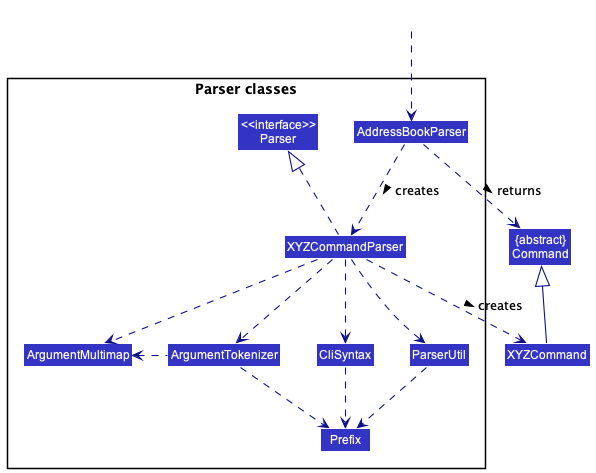
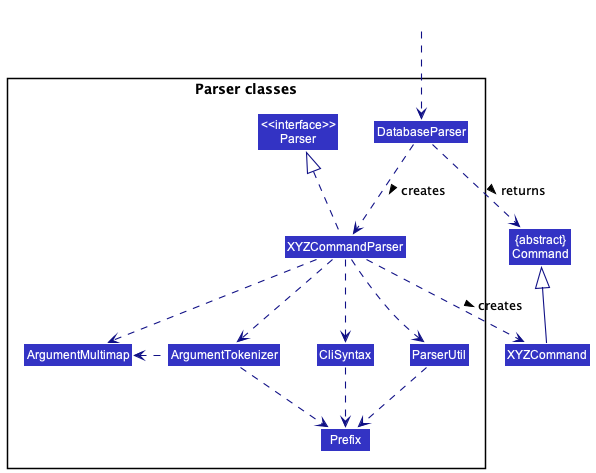
Change diagrams and DG steps

diff --git a/docs/DeveloperGuide.md b/docs/DeveloperGuide.md
@@ -88,7 +88,7 @@ Refer to the guide [_Setting up and getting started_](SettingUp.md).
 
 <div markdown="span" class="alert alert-primary">
 
-:bulb: **Tip:** The `.puml` files used to create diagrams in this document can be found in the [diagrams](https://github.com/se-edu/addressbook-level3/tree/master/docs/diagrams/) folder. Refer to the [_PlantUML Tutorial_ at se-edu/guides](https://se-education.org/guides/tutorials/plantUml.html) to learn how to create and edit diagrams.
+:bulb: **Tip:** The `.puml` files used to create diagrams in this document can be found in the [diagrams](https://github.com/AY2223S1-CS2103T-T15-1/tp/tree/master/docs/diagrams/) folder. Refer to the [_PlantUML Tutorial_ at se-edu/guides](https://se-education.org/guides/tutorials/plantUml.html) to learn how to create and edit diagrams.
 
 </div>
 
@@ -102,7 +102,7 @@ Given below is a quick overview of main components and how they interact with ea
 
 **Main components of the architecture**
 
-**`Main`** has two classes called [`Main`](https://github.com/se-edu/addressbook-level3/tree/master/src/main/java/coydir/Main.java) and [`MainApp`](https://github.com/se-edu/addressbook-level3/tree/master/src/main/java/coydir/MainApp.java). It is responsible for,
+**`Main`** has two classes called [`Main`](https://github.com/AY2223S1-CS2103T-T15-1/tp/tree/master/src/main/java/coydir/Main.java) and [`MainApp`](https://github.com/AY2223S1-CS2103T-T15-1/tp/tree/master/src/main/java/coydir/MainApp.java). It is responsible for,
 
 - At app launch: Initializes the components in the correct sequence, and connects them up with each other.
 - At shut down: Shuts down the components and invokes cleanup methods where necessary.
@@ -135,13 +135,13 @@ The sections below give more details of each component.
 
 ### UI component
 
-The **API** of this component is specified in [`Ui.java`](https://github.com/se-edu/addressbook-level3/tree/master/src/main/java/coydir/ui/Ui.java)
+The **API** of this component is specified in [`Ui.java`](https://github.com/AY2223S1-CS2103T-T15-1/tp/tree/master/src/main/java/coydir/ui/Ui.java)
 
 ![Structure of the UI Component](images/diagrams/UiClassDiagram.png)
 
 The UI consists of a `MainWindow` that is made up of parts e.g.`CommandBox`, `ResultDisplay`, `PersonListPanel`, `StatusBarFooter` etc. All these, including the `MainWindow`, inherit from the abstract `UiPart` class which captures the commonalities between classes that represent parts of the visible GUI.
 
-The `UI` component uses the JavaFx UI framework. The layout of these UI parts are defined in matching `.fxml` files that are in the `src/main/resources/view` folder. For example, the layout of the [`MainWindow`](https://github.com/se-edu/addressbook-level3/tree/master/src/main/java/coydir/ui/MainWindow.java) is specified in [`MainWindow.fxml`](https://github.com/se-edu/addressbook-level3/tree/master/src/main/resources/view/MainWindow.fxml)
+The `UI` component uses the JavaFx UI framework. The layout of these UI parts are defined in matching `.fxml` files that are in the `src/main/resources/view` folder. For example, the layout of the [`MainWindow`](https://github.com/AY2223S1-CS2103T-T15-1/tp/tree/master/src/main/java/coydir/ui/MainWindow.java) is specified in [`MainWindow.fxml`](https://github.com/AY2223S1-CS2103T-T15-1/tp/tree/master/src/main/resources/view/MainWindow.fxml)
 
 The `UI` component,
 
@@ -152,7 +152,7 @@ The `UI` component,
 
 ### Logic component
 
-**API** : [`Logic.java`](https://github.com/se-edu/addressbook-level3/tree/master/src/main/java/coydir/logic/Logic.java)
+**API** : [`Logic.java`](https://github.com/AY2223S1-CS2103T-T15-1/tp/tree/master/src/main/java/coydir/logic/Logic.java)
 
 Here's a (partial) class diagram of the `Logic` component:
 
@@ -160,7 +160,7 @@ Here's a (partial) class diagram of the `Logic` component:
 
 How the `Logic` component works:
 
-1. When `Logic` is called upon to execute a command, it uses the `AddressBookParser` class to parse the user command.
+1. When `Logic` is called upon to execute a command, it uses the `DatabaseParser` class to parse the user command.
 1. This results in a `Command` object (more precisely, an object of one of its subclasses e.g., `AddCommand`) which is executed by the `LogicManager`.
 1. The command can communicate with the `Model` when it is executed (e.g. to add a person).
 1. The result of the command execution is encapsulated as a `CommandResult` object which is returned back from `Logic`.
@@ -178,12 +178,12 @@ Here are the other classes in `Logic` (omitted from the class diagram above) tha
 
 How the parsing works:
 
-- When called upon to parse a user command, the `AddressBookParser` class creates an `XYZCommandParser` (`XYZ` is a placeholder for the specific command name e.g., `AddCommandParser`) which uses the other classes shown above to parse the user command and create a `XYZCommand` object (e.g., `AddCommand`) which the `AddressBookParser` returns back as a `Command` object.
+- When called upon to parse a user command, the `DatabaseParser` class creates an `XYZCommandParser` (`XYZ` is a placeholder for the specific command name e.g., `AddCommandParser`) which uses the other classes shown above to parse the user command and create a `XYZCommand` object (e.g., `AddCommand`) which the `DatabaseParser` returns back as a `Command` object.
 - All `XYZCommandParser` classes (e.g., `AddCommandParser`, `DeleteCommandParser`, ...) inherit from the `Parser` interface so that they can be treated similarly where possible e.g, during testing.
 
 ### Model component
 
-**API** : [`Model.java`](https://github.com/se-edu/addressbook-level3/tree/master/src/main/java/coydir/model/Model.java)
+**API** : [`Model.java`](https://github.com/AY2223S1-CS2103T-T15-1/tp/tree/master/src/main/java/coydir/model/Model.java)
 
 <img class="centerImage" src="images/diagrams/ModelClassDiagram.png" width="850" /><br>
 
@@ -196,7 +196,7 @@ The `Model` component,
 
 ### Storage component
 
-**API** : [`Storage.java`](https://github.com/se-edu/addressbook-level3/tree/master/src/main/java/coydir/storage/Storage.java)
+**API** : [`Storage.java`](https://github.com/AY2223S1-CS2103T-T15-1/tp/tree/master/src/main/java/coydir/storage/Storage.java)
 
 <img class="centerImage" src="images/diagrams/StorageClassDiagram.png" width="450"/><br>
 
@@ -226,13 +226,13 @@ Below is a sequence diagram and explanation of how `add` is executed.
 
 <img class="centerImage" src="images/diagrams/AddCommandUML.png" /><br>
 
-Step 1. The user enters the command `add n/Jon j/janitor`.
+Step 1. The user enters the command `add n/Jon j/janitor d/General Management`.
 
-Step 2. User input is parsed by `AddCommandParser` which creates the`AddCommand` object, then the method `LogicManager#execute` is called to create the AddCommand object.
+Step 2. The method `LogicManager#execute` is called on the user input, prompting for `AddCommandParser` to parse the user input and create the `AddCommand` object.
 
 Step 3. The `execute` method of AddCommand is then called on the object, which returns a `CommandResult` object.
 
-Step 4. This adds the `person` from the list from the model. The `employeeID` is set and if there already exist a `person` object with the same field data, a `CommandException` will be thrown and a message indicating duplicate person will be shown. If the `person` object does not exist, then using `model#addPerson()`, the `person` object is added to the `database`.
+Step 4. This adds the `person` from the list to the model. The `employeeID` is set and if there already exist a `person` object with the same field data, a `CommandException` will be thrown and a message indicating duplicate person will be shown. If the `person` object does not exist, then using `model#addPerson()`, the `person` object is added to the `database`.
 
 Step 5. `storage#saveDatabase` is then called on the current `database`, updates the database to contain the new `person`.
 
@@ -244,11 +244,11 @@ This section explains the implementation of the `delete` feature. The command ta
 
 Below is a sequence diagram and explanation of how `delete` is executed.
 
-<img class="centerImage" src="images/diagrams/DeleteCommandUML.png" width="550" /><br>
+<img class="centerImage" src="images/diagrams/DeleteSequenceDiagram.png" width="550" /><br>
 
 Step 1. The user enters the command `delete 1`.
 
-Step 2. User input is parsed by `DeleteCommandParser` which creates the `DeleteCommand` object, then the method `LogicManager#execute` is called to create the `DeleteCommand` object.
+Step 2. The method `LogicManager#execute` is called on the user input, prompting for `DeleteCommandParser` to parse the user input and create the `DeleteCommand` object.
 
 Step 3. The `execute` method of `DeleteCommand` is then called on the object, which returns a `CommandResult` object.
 
@@ -277,7 +277,7 @@ Below is a sequence diagram and explanation of how `find` is executed. In this s
 
 Step 1. The user enters the command `find n/Alex`.
 
-Step 2. User input is parsed by `FindCommandParser` which creates a `PersonMatchesKeywordsPredicate`, which is a predicate used to create the `FindCommand` object, then the method `LogicManager#execute` is called to create the `FindCommand` object.
+Step 2. The method `LogicManager#execute` is called on the user input, prompting for `FindCommandParser` to parse the user input and create the `FindCommand` object.
 
 Step 3. The `execute` method of `FindCommand` is then called on the object.
 
@@ -295,7 +295,7 @@ Below is a sequence diagram and explanation of how `view` is executed.
 
 Step 1. The use enters the command `view 1`.
 
-Step 2. User input is parsed by `ViewCommandParser` which created the `ViewCommand` object, then the method `LogicManager#execute` is called to create the `ViewCommand` object.
+Step 2. The method `LogicManager#execute` is called on the user input, prompting for `ViewCommandParser` to parse the user input and create the `ViewCommand` object.
 
 Step 3. The `execute` method of `ViewCommand` is then called on the object, which returns a `CommandResult` object.
 
@@ -319,7 +319,7 @@ Below is a sequence diagram and explanation of how `rate` is executed. In this e
 
 Step 1. The user enters the command "rate id/1 r/3".
 
-Step 2. The user input is parsed by `RateCommandParser` which creates an `RateCommand` object.
+Step 2. The method `LogicManager#execute` is called on the user input, prompting for `RateCommandParser` to parse the user input and create the `RateCommand` object.
 
 Step 3. The `execute` method of `RateCommand` is then called on the object.
 
@@ -349,7 +349,7 @@ Below is a sequence diagram and explanation of how `add-leave` is executed. In t
 
 Step 1. The user enters the command "add-leave id/1 sd/01-01-2022 ed/01-01-2022".
 
-Step 2. The user input is parsed by `AddLeaveCommandParser` which creates an `AddLeaveCommand` object.
+Step 2. The method `LogicManager#execute` is called on the user input, prompting for `AddLeaveCommandParser` to parse the user input and create the `AddLeaveCommand` object.
 
 Step 3. The `execute` method of `AddLeaveCommand` is then called on the object.
 
@@ -379,7 +379,7 @@ Below is a sequence diagram and explanation of how `delete-leave` is executed. I
 
 Step 1. The user enters the command "delete-leave id/1 i/1".
 
-Step 2. The user input is parsed by `DeleteLeaveCommandParser` which creates a `DeleteLeaveCommand`.
+Step 2. The method `LogicManager#execute` is called on the user input, prompting for `DeleteLeaveCommandParser` to parse the user input and create the `DeleteLeaveCommand` object.
 
 Step 3. The `execute` method of `DeleteLeaveCommand` is then called on the object.
 
@@ -416,25 +416,25 @@ UML Diagram:
 
 **Steps:**
 
-**Step 1**: User launches the application.
+Step 1. User launches the application.
 
-**Step 2**: User executes `batch-add filename` command. In the `LogicManager` class, the `DatabaseParser` method is called.
+Step 2. User executes `batch-add filename` command. In the `LogicManager` class, the `DatabaseParser` method is called.
 This will return a new `BatchAddCommandParser` object and `parse` function is then called.
 A helper function in `ParserUtil` helps to trim the filename and check if it is valid.
 
 Note: If no argument is provided or file not in CSV format, a`ParseException` will be thrown.
 
-**Step 3**: The `parse` function returns a `BatchAddCommand` which is then executed. In this `execute` function, the first
+Step 3. The `parse` function returns a `BatchAddCommand` which is then executed. In this `execute` function, the first
 step would be to read the information in the CSV file (`getInfo` function). A `BufferedReader` object is used to read the CSV file and converts
 each row to a string of arguments (following the add command requirements) and creates a new `AddCommand`. These new `AddCommands` will be added
 into a `List<AddCommand>`.
 
 Note: If file does not exist in the folder, a `FileNotFound` exception is thrown too.
 
-**Step 4**: Once `getInfo` returns a `List<AddCommand>`, the list will then be iterated through to execute each `AddCommand`.
+Step 4. Once `getInfo` returns a `List<AddCommand>`, the list will then be iterated through to execute each `AddCommand`.
 If there is any duplicate Person found, the function call will be aborted and the database will be reverted to its original state.
 
-**Step 5**: `storage#saveDatabase` is then called on the current `database`, updates the database to contain the new persons added.
+Step 5. `storage#saveDatabase` is then called on the current `database`, updates the database to contain the new persons added.
 
 <h4 id="batch-add-feature-design-considerations">Design Considerations</h4>
 
